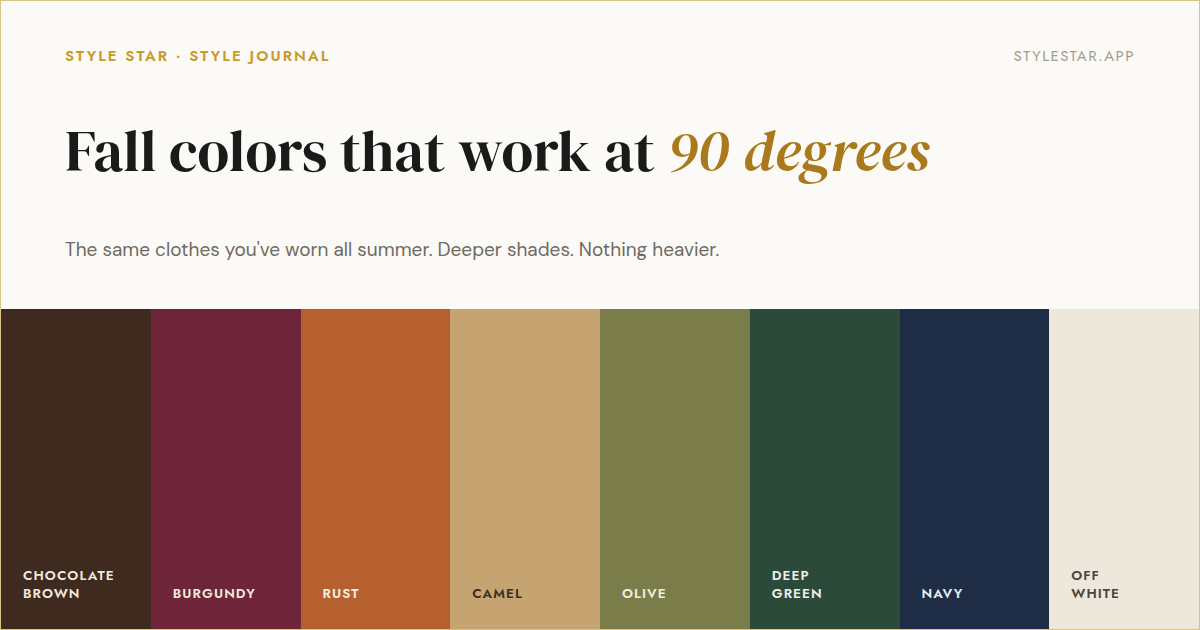
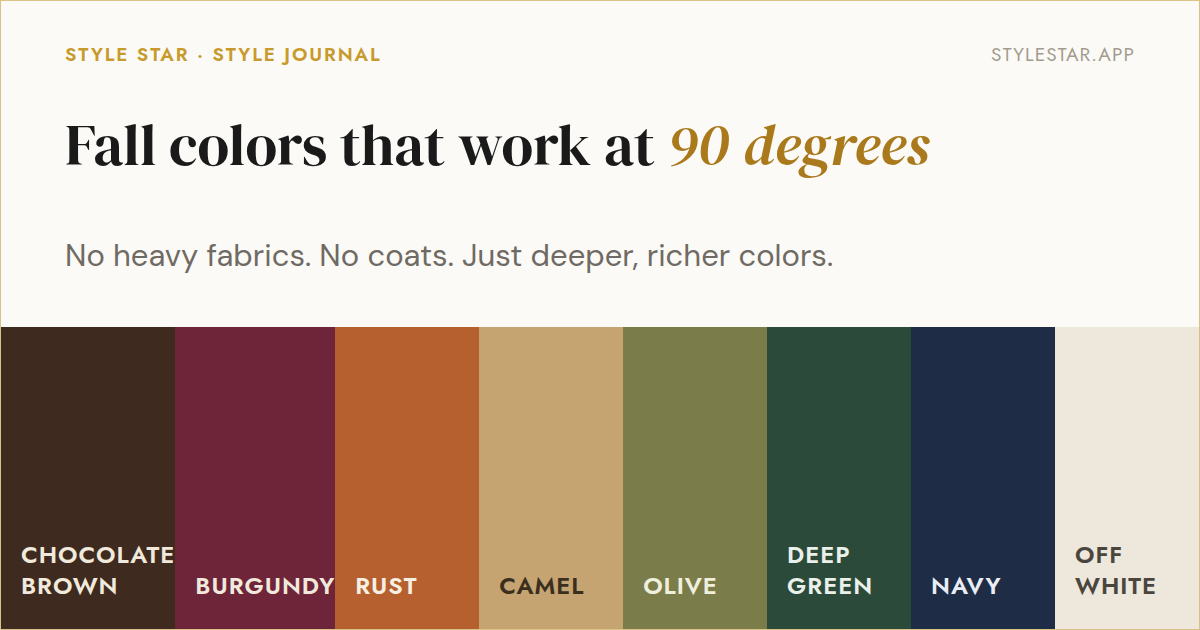
Fix the two share-card images: illegible small text, and wrong fall-florida sub-line
Both journal share cards had readable headlines but everything else (top labels,
sub-line, slider category labels and word pairs on card 1; band labels on card 2)
was sized for a 1200x630 source that gets displayed at ~278px on the article page
and even smaller in a text-message link preview - the exact readability complaint.

Bumped every secondary text size roughly 1.5-2x (labels 12.5-19px, slider words
17-29px, sub-line 19/20-31/35px, band labels 13.5-24px), re-laid out the slider
block to fit the taller rows inside the 630px card without clipping, and verified
by downscaling the actual rendered PNG to 278px wide (the real on-page display
size) - every word now reads clearly at that size, not just the headline.

Also fixed the fall-florida card's sub-line, which never matched what she asked
for: "The same clothes you've worn all summer. Deeper shades. Nothing heavier."
is replaced with her correct wording, "No heavy fabrics. No coats. Just deeper,
richer colors."

Claude-Session: https://claude.ai/code/session_01WUZ1Tmh4cbq1RRcXZfVcnT

diff --git a/scratchpad/ogcards/card1-spectrum.html b/scratchpad/ogcards/card1-spectrum.html
@@ -10,23 +10,23 @@
 *{margin:0;padding:0;box-sizing:border-box}
 html,body{width:1200px;height:630px;background:#FBFAF7;font-family:'DM Sans',sans-serif;overflow:hidden}
 .card{width:1200px;height:630px;background:#FBFAF7;border:1px solid #D8C285;position:relative}
-.top{position:absolute;top:44px;left:64px;right:64px;display:flex;justify-content:space-between;align-items:baseline}
-.lbl-l{font-family:'Jost';font-weight:600;font-size:15px;letter-spacing:.14em;color:#C89A2C;text-transform:uppercase}
-.lbl-r{font-family:'Jost';font-weight:400;font-size:15px;letter-spacing:.1em;color:#a39c8e;text-transform:uppercase}
-.headline{position:absolute;top:118px;left:64px;right:64px;font-family:'DM Serif Display',serif;font-weight:400;font-size:64px;color:#1a1a1a;line-height:1.08}
+.top{position:absolute;top:40px;left:64px;right:64px;display:flex;justify-content:space-between;align-items:baseline}
+.lbl-l{font-family:'Jost';font-weight:600;font-size:19px;letter-spacing:.1em;color:#C89A2C;text-transform:uppercase}
+.lbl-r{font-family:'Jost';font-weight:400;font-size:19px;letter-spacing:.06em;color:#a39c8e;text-transform:uppercase}
+.headline{position:absolute;top:112px;left:64px;right:64px;font-family:'DM Serif Display',serif;font-weight:400;font-size:64px;color:#1a1a1a;line-height:1.08}
 .headline i{font-style:italic;color:#a9791b}
-.sub{position:absolute;top:238px;left:64px;font-family:'DM Sans',sans-serif;font-size:20px;color:#6f6a63}
-.sliders{position:absolute;top:340px;left:64px;right:64px}
-.slider{margin-bottom:56px}
+.sub{position:absolute;top:232px;left:64px;right:64px;font-family:'DM Sans',sans-serif;font-weight:500;font-size:35px;color:#6f6a63}
+.sliders{position:absolute;top:320px;left:64px;right:64px}
+.slider{margin-bottom:22px}
 .slider:last-child{margin-bottom:0}
-.slabel{font-family:'Jost';font-weight:600;font-size:12.5px;letter-spacing:.13em;color:#C89A2C;text-transform:uppercase;margin-bottom:10px}
+.slabel{font-family:'Jost';font-weight:600;font-size:19px;letter-spacing:.08em;color:#C89A2C;text-transform:uppercase;margin-bottom:13px}
 .srow{display:flex;align-items:center}
-.sword{font-family:'Jost';font-weight:500;font-size:17px;letter-spacing:.06em;color:#2a2620;text-transform:uppercase;white-space:nowrap}
+.sword{font-family:'Jost';font-weight:600;font-size:29px;letter-spacing:.02em;color:#2a2620;text-transform:uppercase;white-space:nowrap}
 .sword.left{margin-right:24px}
 .sword.right{margin-left:24px}
-.track{flex:1;height:1px;background:#E4DCC8;position:relative}
-.tick{position:absolute;top:-4px;width:1px;height:9px;background:#E4DCC8}
-.dot{position:absolute;top:-7px;width:15px;height:15px;border-radius:50%;background:#C89A2C;transform:translateX(-50%)}
+.track{flex:1;height:2px;background:#E4DCC8;position:relative}
+.tick{position:absolute;top:-5px;width:2px;height:12px;background:#E4DCC8}
+.dot{position:absolute;top:-10px;width:22px;height:22px;border-radius:50%;background:#C89A2C;transform:translateX(-50%)}
 </style></head>
 <body>
 <div class="card">

diff --git a/scratchpad/ogcards/card2-palette.html b/scratchpad/ogcards/card2-palette.html
@@ -9,21 +9,21 @@
 *{margin:0;padding:0;box-sizing:border-box}
 html,body{width:1200px;height:630px;background:#FBFAF7;font-family:'DM Sans',sans-serif;overflow:hidden}
 .card{width:1200px;height:630px;background:#FBFAF7;border:1px solid #D8C285;position:relative;overflow:hidden}
-.top{position:absolute;top:44px;left:64px;right:64px;display:flex;justify-content:space-between;align-items:baseline}
-.lbl-l{font-family:'Jost';font-weight:600;font-size:15px;letter-spacing:.14em;color:#C89A2C;text-transform:uppercase}
-.lbl-r{font-family:'Jost';font-weight:400;font-size:15px;letter-spacing:.1em;color:#a39c8e;text-transform:uppercase}
-.headline{position:absolute;top:118px;left:64px;right:64px;font-family:'DM Serif Display',serif;font-weight:400;font-size:58px;color:#1a1a1a;line-height:1.1}
+.top{position:absolute;top:40px;left:64px;right:64px;display:flex;justify-content:space-between;align-items:baseline}
+.lbl-l{font-family:'Jost';font-weight:600;font-size:19px;letter-spacing:.1em;color:#C89A2C;text-transform:uppercase}
+.lbl-r{font-family:'Jost';font-weight:400;font-size:19px;letter-spacing:.06em;color:#a39c8e;text-transform:uppercase}
+.headline{position:absolute;top:112px;left:64px;right:64px;font-family:'DM Serif Display',serif;font-weight:400;font-size:58px;color:#1a1a1a;line-height:1.1}
 .headline i{font-style:italic;color:#a9791b}
-.sub{position:absolute;top:236px;left:64px;font-family:'DM Sans',sans-serif;font-size:19px;color:#6f6a63}
-.bands{position:absolute;top:308px;left:0;right:0;bottom:0;display:flex}
-.band{flex:1;display:flex;align-items:flex-end;padding:0 0 26px 22px}
-.band-label{font-family:'Jost';font-weight:600;font-size:13.5px;letter-spacing:.08em;text-transform:uppercase;line-height:1.35}
+.sub{position:absolute;top:234px;left:64px;right:64px;font-family:'DM Sans',sans-serif;font-weight:500;font-size:31px;color:#6f6a63}
+.bands{position:absolute;top:326px;left:0;right:0;bottom:0;display:flex}
+.band{flex:1;display:flex;align-items:flex-end;padding:0 0 28px 20px}
+.band-label{font-family:'Jost';font-weight:600;font-size:24px;letter-spacing:.04em;text-transform:uppercase;line-height:1.3}
 </style></head>
 <body>
 <div class="card">
   <div class="top"><span class="lbl-l">Style Star &middot; Style Journal</span><span class="lbl-r">stylestar.app</span></div>
   <h1 class="headline">Fall colors that work at <i>90 degrees</i></h1>
-  <div class="sub">The same clothes you've worn all summer. Deeper shades. Nothing heavier.</div>
+  <div class="sub">No heavy fabrics. No coats. Just deeper, richer colors.</div>
   <div class="bands">
     <div class="band" style="background:#3E2A1E"><span class="band-label" style="color:#F0E9DC">Chocolate<br>Brown</span></div>
     <div class="band" style="background:#6E2439"><span class="band-label" style="color:#F0E9DC">Burgundy</span></div>
